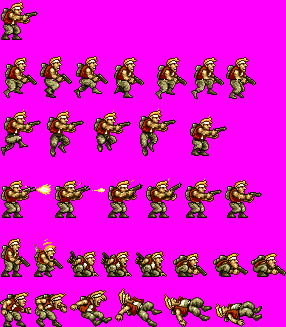
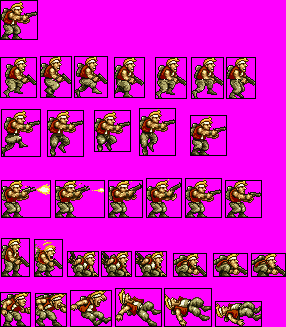
Cambios offset y rossi acabado

diff --git a/juego2D/personajes.py b/juego2D/personajes.py
@@ -237,7 +237,7 @@ class Jugador(Personaje):
     def __init__(self):
         # Invocamos al constructor de la clase padre con la configuracion de este personaje concreto
         #Personaje.__init__(self,'Fase/1/Jugador.png','Fase/1/coordJugador.txt', [6,12,6], VELOCIDAD_JUGADOR, VELOCIDAD_SALTO_JUGADOR, RETARDO_ANIMACION_JUGADOR);
-        Personaje.__init__(self,'Fase/1/rossi.png','Fase/1/offsetsSoldado.txt', [1,4,4,6,8], VELOCIDAD_JUGADOR, VELOCIDAD_SALTO_JUGADOR, RETARDO_ANIMACION_JUGADOR);
+        Personaje.__init__(self,'Fase/1/rossi.png','Fase/1/offsetRossi.txt', [1,4,4,6,8], VELOCIDAD_JUGADOR, VELOCIDAD_SALTO_JUGADOR, RETARDO_ANIMACION_JUGADOR);
 
     def mover(self, teclasPulsadas, arriba, abajo, izquierda, derecha):
         # Indicamos la acción a realizar segun la tecla pulsada para el jugador
